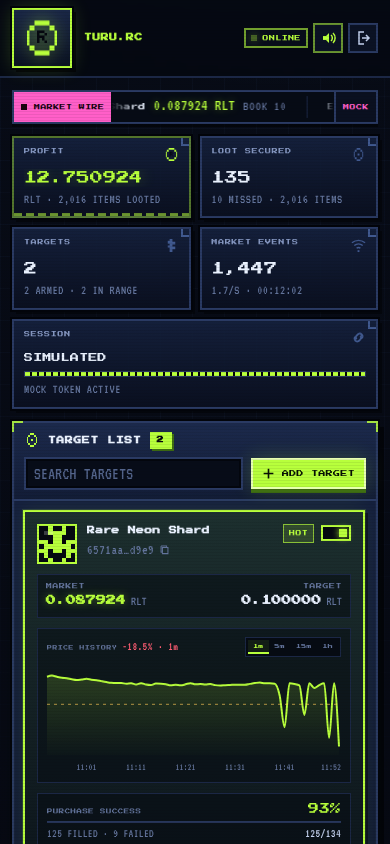
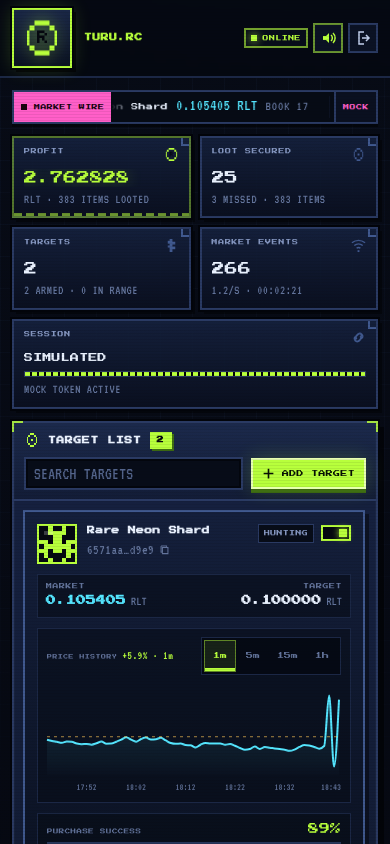
style: enlarge chart timeframe controls

diff --git a/ui/src/styles.css b/ui/src/styles.css
@@ -3179,14 +3179,17 @@ textarea.input {
   display: flex;
   align-items: center;
   justify-content: space-between;
-  gap: 8px;
-  margin-bottom: 2px;
+  flex-wrap: wrap;
+  gap: 6px 8px;
+  margin-bottom: 4px;
 }
 
 .chart-title {
   display: flex;
   align-items: baseline;
   gap: 8px;
+  flex: 1;
+  min-width: 0;
   font-family: var(--font-display);
   font-size: 5.5px;
   letter-spacing: 0.4px;
@@ -3211,32 +3214,44 @@ textarea.input {
 .tf-group {
   display: flex;
   align-items: center;
-  gap: 1px;
+  gap: 2px;
+  flex: none;
   padding: 2px;
   border: 1px solid var(--line-soft);
   background: rgba(5, 9, 18, 0.8);
 }
 
 .tf-btn {
-  padding: 3px 5px;
-  border: 0;
+  min-width: 36px;
+  min-height: 32px;
+  padding: 6px 8px;
+  border: 1px solid transparent;
   background: transparent;
   color: var(--muted-2);
   font-family: var(--font-display);
-  font-size: 5px;
-  line-height: 1.5;
-  letter-spacing: 0.2px;
+  font-size: 8px;
+  line-height: 1.4;
+  letter-spacing: 0;
   cursor: pointer;
+  touch-action: manipulation;
 }
 
 .tf-btn:hover {
   color: var(--ink);
+  border-color: var(--line);
+  background: rgba(85, 230, 255, 0.06);
+}
+
+.tf-btn:focus-visible {
+  outline: 2px dashed var(--cyan);
+  outline-offset: 1px;
 }
 
 .tf-btn.is-active {
   color: var(--lime);
-  background: rgba(184, 255, 60, 0.08);
-  box-shadow: inset 0 -2px 0 var(--lime);
+  border-color: rgba(184, 255, 60, 0.45);
+  background: rgba(184, 255, 60, 0.1);
+  box-shadow: inset 0 -3px 0 var(--lime);
 }
 
 .chart-frame {
@@ -3300,6 +3315,17 @@ textarea.input {
 
   .chart-change {
     font-size: 12px;
+  }
+
+  .tf-group {
+    gap: 1px;
+  }
+
+  .tf-btn {
+    min-width: 32px;
+    min-height: 32px;
+    padding: 6px 6px;
+    font-size: 7px;
   }
 
   .chart-frame {
